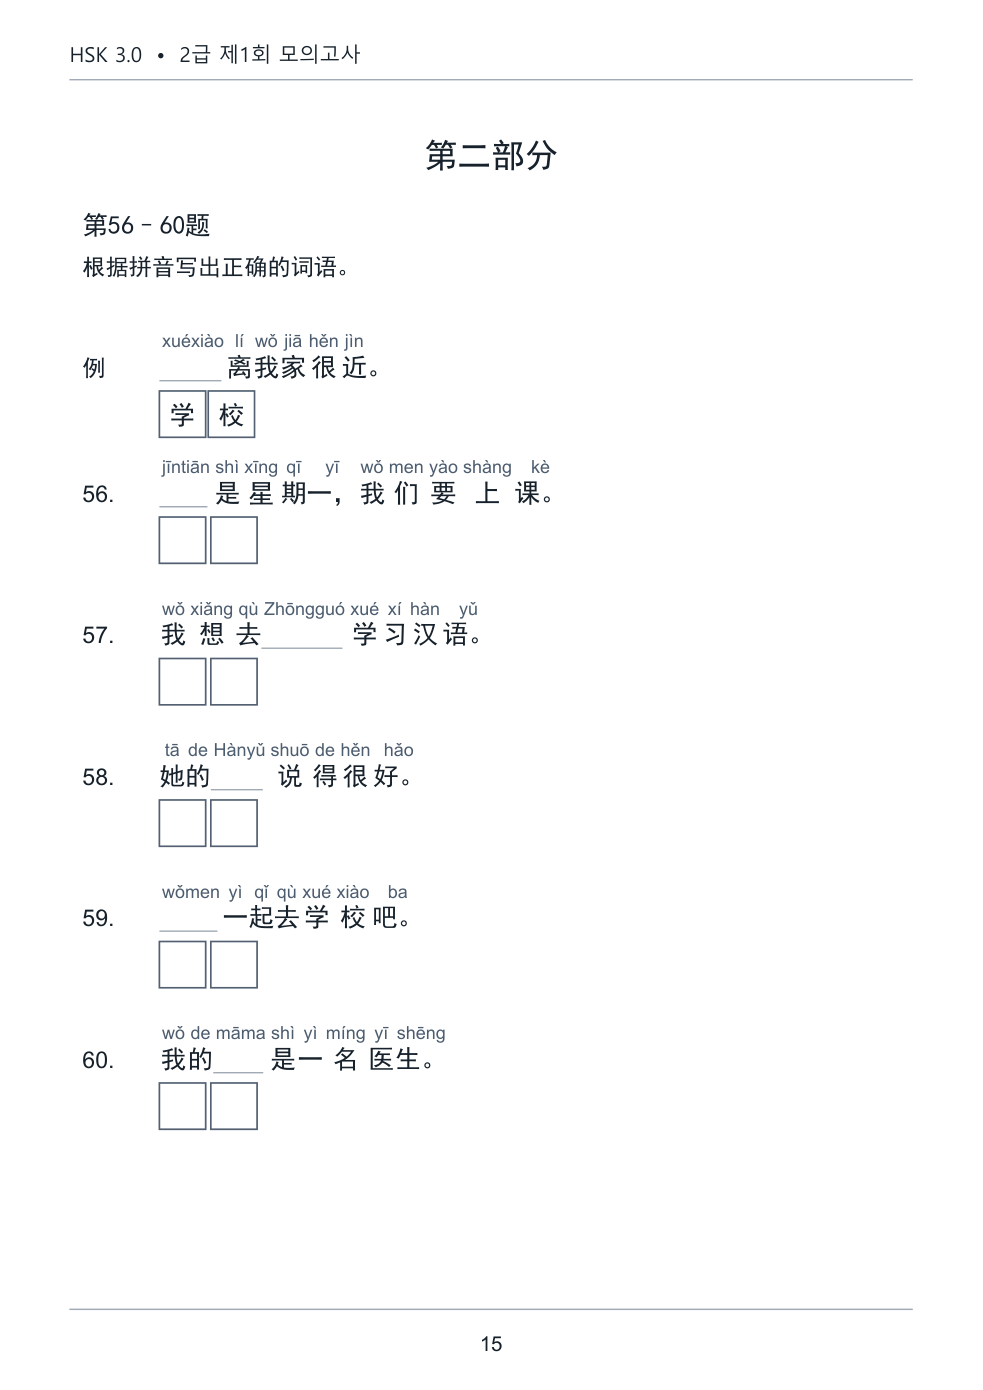
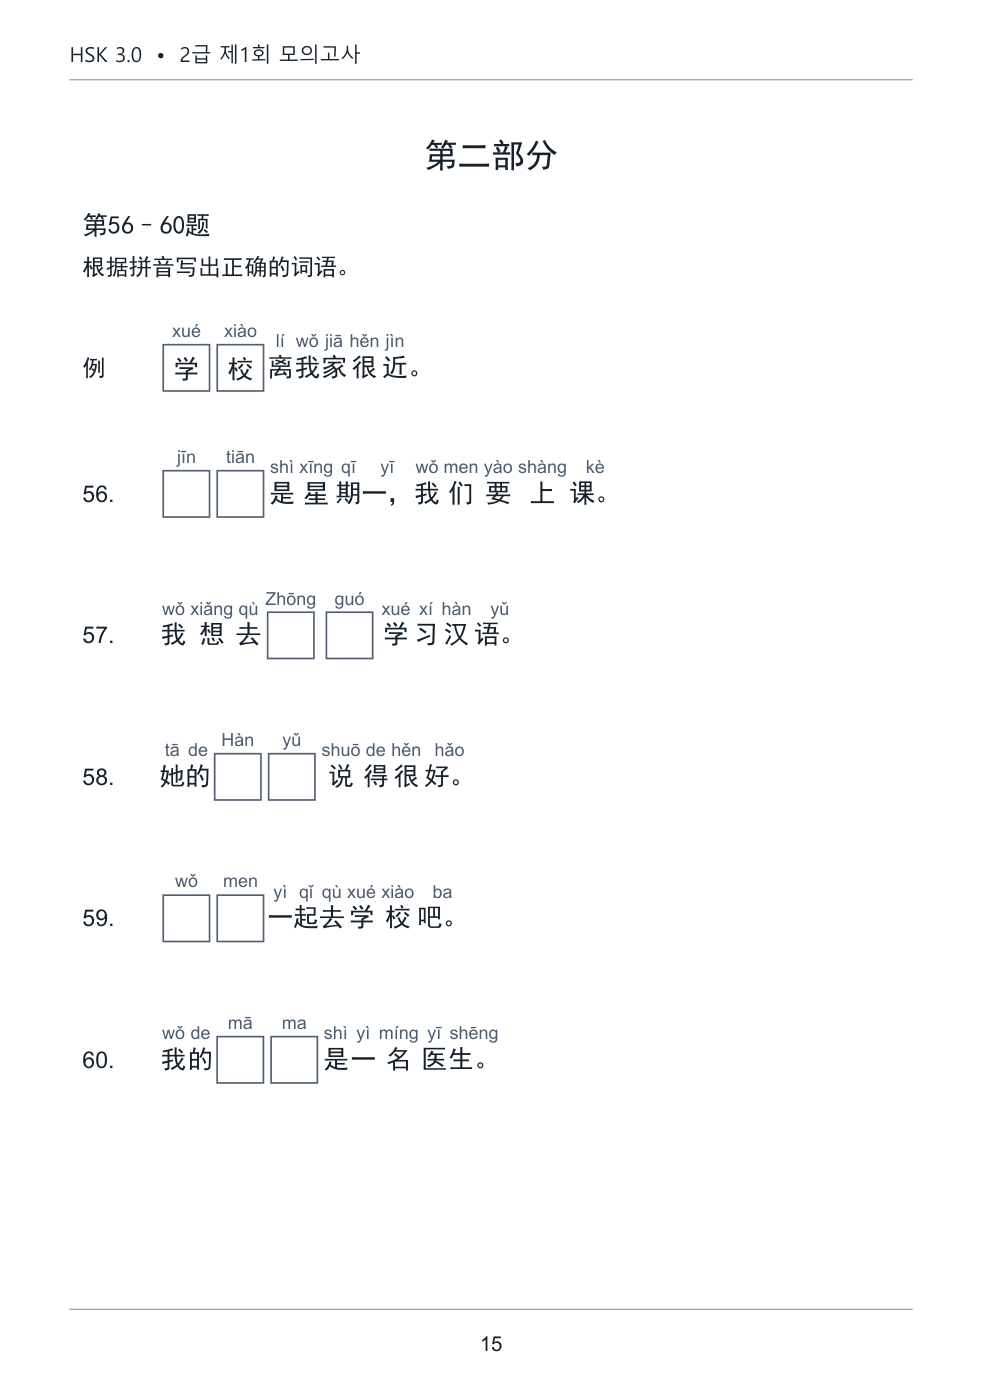
2급 제01회 쓰기 네모칸 위치 수정

diff --git a/2급/scripts/booklet.py b/2급/scripts/booklet.py
@@ -1,14 +1,19 @@
-"""Build one HSK 2 sample booklet and answer booklet from the numbered source."""
+"""Build one HSK 2 sample booklet and answer booklet from the numbered source.
+
+The writing section uses pypinyin to split the source's joined pinyin.
+"""
 import argparse
 import json
 from itertools import chain
 from pathlib import Path
 import re
+import unicodedata
 from io import BytesIO
 
 from PIL import Image
 import pymupdf as fitz
 from pypdf import PdfReader
+from pypinyin import Style, pinyin
 from reportlab.lib.utils import ImageReader
 from reportlab.pdfbase import pdfmetrics
 from reportlab.pdfbase.ttfonts import TTFont
@@ -195,18 +200,56 @@ def source_cells(page, start=149, stop=788, blanks=()):
         yield groups
         ruby = []
 
-def draw_cells(layout,x,y,cells,right):
+def writing_syllables(word, ruby):
+    """Split the printed pinyin at the answer's character boundaries."""
+    def plain(value):
+        return ''.join(char for char in unicodedata.normalize('NFD',value.lower())
+                       if char not in '\u0300\u0301\u0304\u030c')
+
+    remaining = ruby
+    syllables = []
+    for spellings in pinyin(word,style=Style.NORMAL,heteronym=True,v_to_u=True):
+        normalized = {plain(spelling) for spelling in spellings}
+        for width in sorted({len(spelling) for spelling in spellings},reverse=True):
+            chunk = remaining[:width]
+            if plain(chunk) in normalized:
+                remaining = remaining[width:]
+                if remaining.startswith(("'",'’')):
+                    chunk += remaining[0]
+                    remaining = remaining[1:]
+                syllables.append(chunk)
+                remaining = remaining.lstrip()
+                break
+        else:
+            raise ValueError(f'Cannot align {ruby!r} with {word!r}')
+    if remaining:
+        raise ValueError(f'Extra pinyin in {ruby!r} for {word!r}')
+    return syllables
+
+def draw_cells(layout,x,y,cells,right,writing_answer='',show_answer=False):
     """Fit paired syllables and characters together, wrapping at cell boundaries."""
     left = x
     for han,py in cells:
+        if han == '____':
+            syllables = writing_syllables(writing_answer,py)
+            size, gap = 18, 3
+            width = max(size+gap,*(pdfmetrics.stringWidth(s,'Latin',PINYIN_SIZE)+gap
+                                   for s in syllables))
+            if x+width*len(syllables) > right:
+                x,y = left,y+ROW_STEP
+            for char,syllable in zip(writing_answer,syllables):
+                center = x+width/2
+                layout.box(center-size/2,y-12,size,size)
+                layout.text(center,y-15,syllable,PINYIN_SIZE,'Latin',True,'#4e5e70')
+                if show_answer:
+                    layout.text(center,y+1,char,BODY_SIZE,center=True)
+                x += width
+            continue
         width = max(pdfmetrics.stringWidth(han,'CN',BODY_SIZE),
                     pdfmetrics.stringWidth(py,'Latin',PINYIN_SIZE)+2)
         if x+width > right:
             x,y = left,y+ROW_STEP
-        if han == '____':
-            layout.line(x,y+2,x+width-2,y+2)
-        else:
-            layout.text(x+width/2,y,han,BODY_SIZE,center=True)
+        layout.text(x+width/2,y,han,BODY_SIZE,center=True)
         if py:
             layout.text(x+width/2,y-RUBY_OFFSET,py,PINYIN_SIZE,'Latin',True,'#4e5e70')
         x += width
@@ -229,8 +272,11 @@ def draw_groups(layout,y,groups,answer_box=False):
 
 def draw_components(layout,page,y):
     rows = source_rows(page)
-    for offset in range(0,len(rows),7):
-        (_,hint),(baseline,number),(_,ruby),*diagram = rows[offset:offset+7]
+    starts = [i-1 for i,(_,row) in enumerate(rows)
+              if len(row)==1 and re.fullmatch(r'5[1-5]\.',row[0]['text'])]
+    assert len(starts)==5, (page.number,starts)
+    for start,stop in zip(starts,starts[1:]+[len(rows)]):
+        (_,hint),(baseline,number),(_,ruby),*diagram = rows[start:stop]
         spans = [span for _,row in diagram for span in row if span['text'].strip()]
         choices = sorted((span for span in spans if 170 < span['origin'][0] < 400),
                          key=lambda span: span['origin'][0])
@@ -446,10 +492,8 @@ def booklet(source,raw,keys,set_number,output,examples):
                 draw_components(layout,source[page],177)
             elif page==13:
                 t(32,146,'例',NUMBER_SIZE)
-                draw_cells(layout,62,146,[('____','xuéxiào'),*zip('离我家很近。','lí wǒ jiā hěn jìn'.split()+[''])],352)
-                for index,char in enumerate('学校'):
-                    layout.box(62+19*index,152,18,18)
-                    t(71+19*index,165,char,BODY_SIZE,center=True)
+                draw_cells(layout,62,146,[('____','xuéxiào'),*zip('离我家很近。','lí wǒ jiā hěn jìn'.split()+[''])],
+                           352,writing_answer='学校',show_answer=True)
                 y=195
             if page in (4,5,7,8,9,10,11,13):
                 start = {7:235,8:377}.get(page,149)
@@ -462,13 +506,14 @@ def booklet(source,raw,keys,set_number,output,examples):
                     rows = preceding[:split] if page==10 else chain(preceding[split:],rows)
                 for groups in rows:
                     label = groups[0][0]
-                    y = draw_groups(layout,y,groups,answer_box=page in (8,9) and label.endswith('.'))
-                    assert y < 500, (page,y,groups)
                     if page==13:
-                        for i in range(2):
-                            layout.box(62+i*20,y+6,18,18)
+                        t(32,y,label,NUMBER_SIZE,'Latin')
+                        y = draw_cells(layout,62,y,groups[0][1],352,writing_answer=keys[int(label[:-1])])
+                        assert y+6 < 500, (page,y,groups)
                         y += 55
                     else:
+                        y = draw_groups(layout,y,groups,answer_box=page in (8,9) and label.endswith('.'))
+                        assert y < 500, (page,y,groups)
                         y += ROW_STEP
                         if len(groups)==3 and page in (4,5,10,11):
                             y += 7
